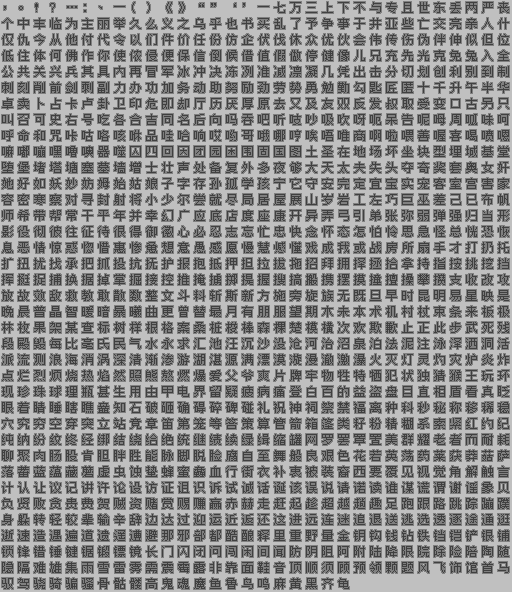
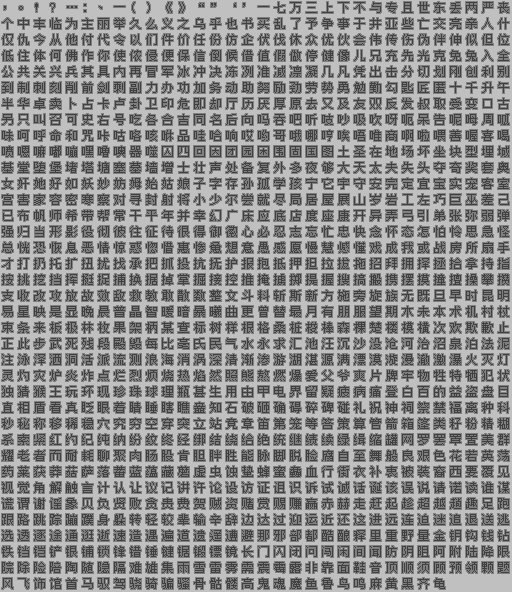
修正部分文本，修改字库

Changed region(s): [[0.0, 0.0912, 1.0, 1.0]]

diff --git a/assets/text_compression.py b/assets/text_compression.py
@@ -398,7 +398,7 @@ class LangCN(LangUS):
   ]
   # 1118 unique CJK characters from dialogue_cn.txt, sorted by Unicode codepoint
   cjk_chars = list(
-    '一七万三上下不与专且世东丢两严丧个中丰临为主丽举久么义之乌乎也书买乱了予争事于井亚些亡交亮亲人什仅仇今从他付代令以们件价任份仿企伏伐休众优伙会伟传伤伪伴伸似但位低住体何佛作你使侬侵便保信倒候借值假做停健像儿兄充先光克免兔入全公共关兴兵其具内再冒军冰冲决冻冽准减凛凝几凭出击分切划创利别到制刺刻削前剑剩副力办功加务动助努励劲劳势勇勉勤勾匙匠匿十千升午半华卓卖卜占卡卢卦卫印危即却厅历厌厚原去又及友双反发叔取受变口古另只叫召可史右号吃各合吉同名后向吗吞吧听吱吵吸吹呀呃呆告呢呣周呱味呵呼命和咒咔咕咯咳咻品哇哈响哎哟哥哦哪哼唉唔唯商啊啦喂善喔喜喝喷嗯嘛嘟嘣嘿噜噢器噬囚四回因团园困围固国图土圣在地场坏坐块型埋城基堂堕堡堵塔塘塞墓墙增士壮声处备复外多夜够大天太夫失头夺奇奖套奥女奸她好如妖妙妨姆始姑娘子字存孙孤学孩宁它守安完定宜宝实宠客室宫害家容密寒察对寻封射将小少尔尝就尽局居屋展山岁岩工左巧巨巫差己已布帆师希带帮常干平年并幸幻广应底店度座康开异弄弓引弟张弥弱弹强归当形影役彻彼往征待很得御徽心必忍志忘忙忠快念怀态怎怕怜思急怪总恍恐恢息恶情惊惑惚惜惠惨惫想意愚感愿慢慧憾懂戏成我或战房所扇手才打扔托扩扭扰找承把抓投抗抚护报抱抵押担拉拔拖招拜拥择拯拾拿持指按挑挖挡挥挺捉捕换据掉掌掘接控推掩掳掷提握搜搞搬携摆摸撞擅操攀攒支收改攻放故效敌救教敢散数整文斗料斩斯新方施旁旋族无既旦早时昆明易星映是晚晨普晶智暖暗暴曦曲更曾替最月有朋服望期木未本术机村杖束条来板极林枚果架某查标树样根格案桑桩梭棒森棵楚模横次欢欺歉止正此步武死残段殿毁每比毫氏民气水永求汇池汪沉沙没沧河治沼泉泊法泥注泳泽洒洞活派流测浪海消涡深清渐渗游湖湛源满漂漠漩漫澈激瀑火灭灯灵灼灾炉炎炸点烂烈烦烧热焰然照熊熬燃爆爱父爷爽片牌牢物牲特牺犯状独猜猴王玩环现珍珠球理瓶甚生用由甲电界留疑疲病痛登白百的益盗盘目直相盾看真眨眼着睛睡瞎瞧矗知石破砸确碍碎碑碰礼祝神祠祭禁福离种科秒秘称移稀稳穴究穷空穿突立站竟章笛第笼等答策算管箭箱篷类籽粉精糊系索紧红约纪纯纳纷纹终经绑结绕给绝统继绩续绿缉缩罐网罗罢罩置美群耀老者而耐耗聊聚肉肠股肯胆胖胜能脉脚脱脸腐自至舞般良艰色花若英荡药莱获莽菇萨落蓄蓝蕴藏蘑虚虫蚀蛰蜂蜜蠢血行街衣补衷被装裔西要覆见视觉角解触言计认让议记讲许论设访证诅识诉试诚话诞该误说请诺读谁谋谎谓谢谣象贝负贤败贪贵费贺贼资赌赏赐赚赢赤赫走赶起趁超越趟趣足跑跟路跳踪蹦蹼身躲转轻较辈输辛辞边达过迎运近返还这进远连迷追退送逃选透逐途通逛逝速造遇遍道遗遥遭避那邪部都酷酿释里重野量金钥钩钱钻铁铛铠铲银铺锁锋错锤键锯锻镖镜长门闪闭问闯闲间闻防阴阻阿附陆降限院除险陪陶随隐隔难雄集雨雪雷雾需震霉露非靠面鞋音顶顺须顾预领颗题风飞饰馆首马驭驾骁骑骗骚骨骷髅高鬼魂魔鱼鲁鸟鸣麻黄黑齐龟'
+    '一七万三上下不与专且世东丢两严丧个中丰临为主丽举久么义之乌乎也书买乱了予争事于井亚些亡交亮亲人什仅仇今从他付代令以们件价任份仿企伏伐休众优伙会伟传伤伪伴伸似但位低住体何佛作你使侬侵便保信倒候借值假做停健像儿兄充先光克免兔入全公共关兴兵其具内再冒军冰冲决冻冽准减凛凝几凡凭出击分切划刚创利别到制刺刻削前剑剩副力办功加务动助努励劲劳势勇勉勤勾匙匠匿十千升午半华卓卖卜占卡卢卦卫印危即却厅历厌厚原去又及友双反发叔取受变口古另只叫召可史右号吃各合吉同名后向吗吞吧听吱吵吸吹呀呃呆告呢呣周呱味呵呼命和咒咔咕咯咳咻品哇哈响哎哟哥哦哪哼唉唔唯商啊啦喂善喔喜喝喷嗯嘛嘟嘣嘿噜噢器噬囚四回因团园困围固国图土圣在地场坏坐块型埋城基堂堕堡堵塔塘塞墓墙增士壮声处备复外多夜够大天太夫失头夺奇奖套奥女奸她好如妖妙妨姆始姑娘子字存孙孤学孩宁它宇守安完定宜宝实宠客室宫害家容密寒察对寻封射将小少尔尝就尽局居屋展山岁岩工左巧巨巫差己已布帆师希带帮常干平年并幸幻广床应底店度座康开异弄弓引弟张弥弱弹强归当形影役彻彼往征待很得御徽心必忍志忘忙忠快念怀态怎怕怜思急怪总恍恐恢息恶情惊惑惚惜惠惨惫想意愚感愿慢慧憾懂戏成我或战房所扇手才打扔托扩扭扰找承把抓投抗抚护报抱抵押担拉拔拖招拜拥择拯拾拿持指按挑挖挡挥挺捉捕换据掉掌掘接控推掩掳掷提握搜搞搬携摆摸撞擅操攀攒支收改攻放故效敌救教敢散数整文斗料斩斯新方施旁旋族无既旦早时昆明易星映是显晚晨普晶智暖暗暴曦曲更曾替最月有朋服望期木未本术机村杖束条来板极林枚果架柄某查标树样根格桑桩梭棒森棵楚楼模横次欢欺歉止正此步武死残段殿毁每比毫氏民气水永求汇池汪沉沙没沧河治沼泉泊法泥注泳泽洒洞活派流测浪海消涡深清渐渗游湖湛源满漂漠漩漫澈激瀑火灭灯灵灼灾炉炎炸点烂烈烦烧热焰然照熊熬燃爆爱父爷爽片牌牢物牲特牺犯状独猜猴王玩环现珍珠球理瓶甚生用由甲电界留疑疲病痛登白百的益盗盘目直相盾看真眨眼着睛睡瞎瞧矗知石破砸确碍碎碑碰礼祝神祠祭禁福离种科秒秘称移稀稳穴究穷空穿突立站竟章笛第笼等答策算管箭箱篷类籽粉精糊系索紧红约纪纯纳纷纹终经绑结绕给绝统继绩续绿缉缩罐网罗罢罩置美群耀老者而耐耗聊聚肉肠股肯胆胖胜能脉脚脱脸腐自至舞般良艰色花若英荡药莱获莽菇萨落蓄蓝蕴藏蘑虚虫蚀蛰蜂蜜蠢血行街衣补衷被装裔西要覆见视觉角解触言计认让议记讲许论设访证诅识诉试诚话诞该误说请诺读谁谋谎谓谢谣象贝负贤败贪贵费贺贼资赌赏赐赚赢赤赫走赶起趁超越趟趣足跑跟路跳踪蹦蹼身躲转轻较辈输辛辞边达过迎运近还这进远连迫迷追退送逃选透逐途通逛逝速造遇遍道遗遥遭避那邪部都酷酿释里重野量金钥钩钱钻铁铛铠铲银铺锁锋错锤键锯锻镖镜长门闪闭问闯闲间闻防阴阻阿附陆降限院除险陪陶随隐隔难雄集雨雪雷雾需震霉露非靠面鞋音顶顺须顾预领颗题风飞饰馆首马驭驾骁骑骗骚骨骷髅高鬼魂魔鱼鲁鸟鸣麻黄黑齐龟'
   )
   dictionary = []
   rom_addrs = [0x9c8000, 0x8edf40]
@@ -407,7 +407,7 @@ class LangCN(LangUS):
 
   def __init__(self):
     assert len(self.alphabet) == 111, f'Expected 111, got {len(self.alphabet)}'
-    assert len(self.cjk_chars) == 1158
+    assert len(self.cjk_chars) == 1164
 
 kLanguages = {
   'us' : LangUS(),

diff --git a/tools/generate_font_cn.py b/tools/generate_font_cn.py
@@ -21,7 +21,7 @@ from PIL import Image, ImageFont, ImageDraw
 
 # The sorted CJK characters from dialogue_cn.txt
 CJK_CHARS = list(
-  '一七万三上下不与专且世东丢两严丧个中丰临为主丽举久么义之乌乎也书买乱了予争事于井亚些亡交亮亲人什仅仇今从他付代令以们件价任份仿企伏伐休众优伙会伟传伤伪伴伸似但位低住体何佛作你使侬侵便保信倒候借值假做停健像儿兄充先光克免兔入全公共关兴兵其具内再冒军冰冲决冻冽准减凛凝几凭出击分切划创利别到制刺刻削前剑剩副力办功加务动助努励劲劳势勇勉勤勾匙匠匿十千升午半华卓卖卜占卡卢卦卫印危即却厅历厌厚原去又及友双反发叔取受变口古另只叫召可史右号吃各合吉同名后向吗吞吧听吱吵吸吹呀呃呆告呢呣周呱味呵呼命和咒咔咕咯咳咻品哇哈响哎哟哥哦哪哼唉唔唯商啊啦喂善喔喜喝喷嗯嘛嘟嘣嘿噜噢器噬囚四回因团园困围固国图土圣在地场坏坐块型埋城基堂堕堡堵塔塘塞墓墙增士壮声处备复外多夜够大天太夫失头夺奇奖套奥女奸她好如妖妙妨姆始姑娘子字存孙孤学孩宁它守安完定宜宝实宠客室宫害家容密寒察对寻封射将小少尔尝就尽局居屋展山岁岩工左巧巨巫差己已布帆师希带帮常干平年并幸幻广应底店度座康开异弄弓引弟张弥弱弹强归当形影役彻彼往征待很得御徽心必忍志忘忙忠快念怀态怎怕怜思急怪总恍恐恢息恶情惊惑惚惜惠惨惫想意愚感愿慢慧憾懂戏成我或战房所扇手才打扔托扩扭扰找承把抓投抗抚护报抱抵押担拉拔拖招拜拥择拯拾拿持指按挑挖挡挥挺捉捕换据掉掌掘接控推掩掳掷提握搜搞搬携摆摸撞擅操攀攒支收改攻放故效敌救教敢散数整文斗料斩斯新方施旁旋族无既旦早时昆明易星映是晚晨普晶智暖暗暴曦曲更曾替最月有朋服望期木未本术机村杖束条来板极林枚果架某查标树样根格案桑桩梭棒森棵楚模横次欢欺歉止正此步武死残段殿毁每比毫氏民气水永求汇池汪沉沙没沧河治沼泉泊法泥注泳泽洒洞活派流测浪海消涡深清渐渗游湖湛源满漂漠漩漫澈激瀑火灭灯灵灼灾炉炎炸点烂烈烦烧热焰然照熊熬燃爆爱父爷爽片牌牢物牲特牺犯状独猜猴王玩环现珍珠球理瓶甚生用由甲电界留疑疲病痛登白百的益盗盘目直相盾看真眨眼着睛睡瞎瞧矗知石破砸确碍碎碑碰礼祝神祠祭禁福离种科秒秘称移稀稳穴究穷空穿突立站竟章笛第笼等答策算管箭箱篷类籽粉精糊系索紧红约纪纯纳纷纹终经绑结绕给绝统继绩续绿缉缩罐网罗罢罩置美群耀老者而耐耗聊聚肉肠股肯胆胖胜能脉脚脱脸腐自至舞般良艰色花若英荡药莱获莽菇萨落蓄蓝蕴藏蘑虚虫蚀蛰蜂蜜蠢血行街衣补衷被装裔西要覆见视觉角解触言计认让议记讲许论设访证诅识诉试诚话诞该误说请诺读谁谋谎谓谢谣象贝负贤败贪贵费贺贼资赌赏赐赚赢赤赫走赶起趁超越趟趣足跑跟路跳踪蹦蹼身躲转轻较辈输辛辞边达过迎运近返还这进远连迷追退送逃选透逐途通逛逝速造遇遍道遗遥遭避那邪部都酷酿释里重野量金钥钩钱钻铁铛铠铲银铺锁锋错锤键锯锻镖镜长门闪闭问闯闲间闻防阴阻阿附陆降限院除险陪陶随隐隔难雄集雨雪雷雾需震霉露非靠面鞋音顶顺须顾预领颗题风飞饰馆首马驭驾骁骑骗骚骨骷髅高鬼魂魔鱼鲁鸟鸣麻黄黑齐龟'
+  '一七万三上下不与专且世东丢两严丧个中丰临为主丽举久么义之乌乎也书买乱了予争事于井亚些亡交亮亲人什仅仇今从他付代令以们件价任份仿企伏伐休众优伙会伟传伤伪伴伸似但位低住体何佛作你使侬侵便保信倒候借值假做停健像儿兄充先光克免兔入全公共关兴兵其具内再冒军冰冲决冻冽准减凛凝几凡凭出击分切划刚创利别到制刺刻削前剑剩副力办功加务动助努励劲劳势勇勉勤勾匙匠匿十千升午半华卓卖卜占卡卢卦卫印危即却厅历厌厚原去又及友双反发叔取受变口古另只叫召可史右号吃各合吉同名后向吗吞吧听吱吵吸吹呀呃呆告呢呣周呱味呵呼命和咒咔咕咯咳咻品哇哈响哎哟哥哦哪哼唉唔唯商啊啦喂善喔喜喝喷嗯嘛嘟嘣嘿噜噢器噬囚四回因团园困围固国图土圣在地场坏坐块型埋城基堂堕堡堵塔塘塞墓墙增士壮声处备复外多夜够大天太夫失头夺奇奖套奥女奸她好如妖妙妨姆始姑娘子字存孙孤学孩宁它宇守安完定宜宝实宠客室宫害家容密寒察对寻封射将小少尔尝就尽局居屋展山岁岩工左巧巨巫差己已布帆师希带帮常干平年并幸幻广床应底店度座康开异弄弓引弟张弥弱弹强归当形影役彻彼往征待很得御徽心必忍志忘忙忠快念怀态怎怕怜思急怪总恍恐恢息恶情惊惑惚惜惠惨惫想意愚感愿慢慧憾懂戏成我或战房所扇手才打扔托扩扭扰找承把抓投抗抚护报抱抵押担拉拔拖招拜拥择拯拾拿持指按挑挖挡挥挺捉捕换据掉掌掘接控推掩掳掷提握搜搞搬携摆摸撞擅操攀攒支收改攻放故效敌救教敢散数整文斗料斩斯新方施旁旋族无既旦早时昆明易星映是显晚晨普晶智暖暗暴曦曲更曾替最月有朋服望期木未本术机村杖束条来板极林枚果架柄某查标树样根格桑桩梭棒森棵楚楼模横次欢欺歉止正此步武死残段殿毁每比毫氏民气水永求汇池汪沉沙没沧河治沼泉泊法泥注泳泽洒洞活派流测浪海消涡深清渐渗游湖湛源满漂漠漩漫澈激瀑火灭灯灵灼灾炉炎炸点烂烈烦烧热焰然照熊熬燃爆爱父爷爽片牌牢物牲特牺犯状独猜猴王玩环现珍珠球理瓶甚生用由甲电界留疑疲病痛登白百的益盗盘目直相盾看真眨眼着睛睡瞎瞧矗知石破砸确碍碎碑碰礼祝神祠祭禁福离种科秒秘称移稀稳穴究穷空穿突立站竟章笛第笼等答策算管箭箱篷类籽粉精糊系索紧红约纪纯纳纷纹终经绑结绕给绝统继绩续绿缉缩罐网罗罢罩置美群耀老者而耐耗聊聚肉肠股肯胆胖胜能脉脚脱脸腐自至舞般良艰色花若英荡药莱获莽菇萨落蓄蓝蕴藏蘑虚虫蚀蛰蜂蜜蠢血行街衣补衷被装裔西要覆见视觉角解触言计认让议记讲许论设访证诅识诉试诚话诞该误说请诺读谁谋谎谓谢谣象贝负贤败贪贵费贺贼资赌赏赐赚赢赤赫走赶起趁超越趟趣足跑跟路跳踪蹦蹼身躲转轻较辈输辛辞边达过迎运近还这进远连迫迷追退送逃选透逐途通逛逝速造遇遍道遗遥遭避那邪部都酷酿释里重野量金钥钩钱钻铁铛铠铲银铺锁锋错锤键锯锻镖镜长门闪闭问闯闲间闻防阴阻阿附陆降限院除险陪陶随隐隔难雄集雨雪雷雾需震霉露非靠面鞋音顶顺须顾预领颗题风飞饰馆首马驭驾骁骑骗骚骨骷髅高鬼魂魔鱼鲁鸟鸣麻黄黑齐龟'
 )
 
 # CN punctuation characters (positions 96-111 in the alphabet)

diff --git a/assets/sprite_sheets.py b/assets/sprite_sheets.py
@@ -290,7 +290,7 @@ def encode_font_cn():
 
   # Now encode CJK characters (1118 chars) as 16x16 (4 tiles each)
   cjk_font = bytearray()
-  for i in range(1158):
+  for i in range(1164):
     img_idx = 16 + i  # first 16 are punctuation in font_cn.png
     char_col = img_idx % 32
     char_row = img_idx // 32
